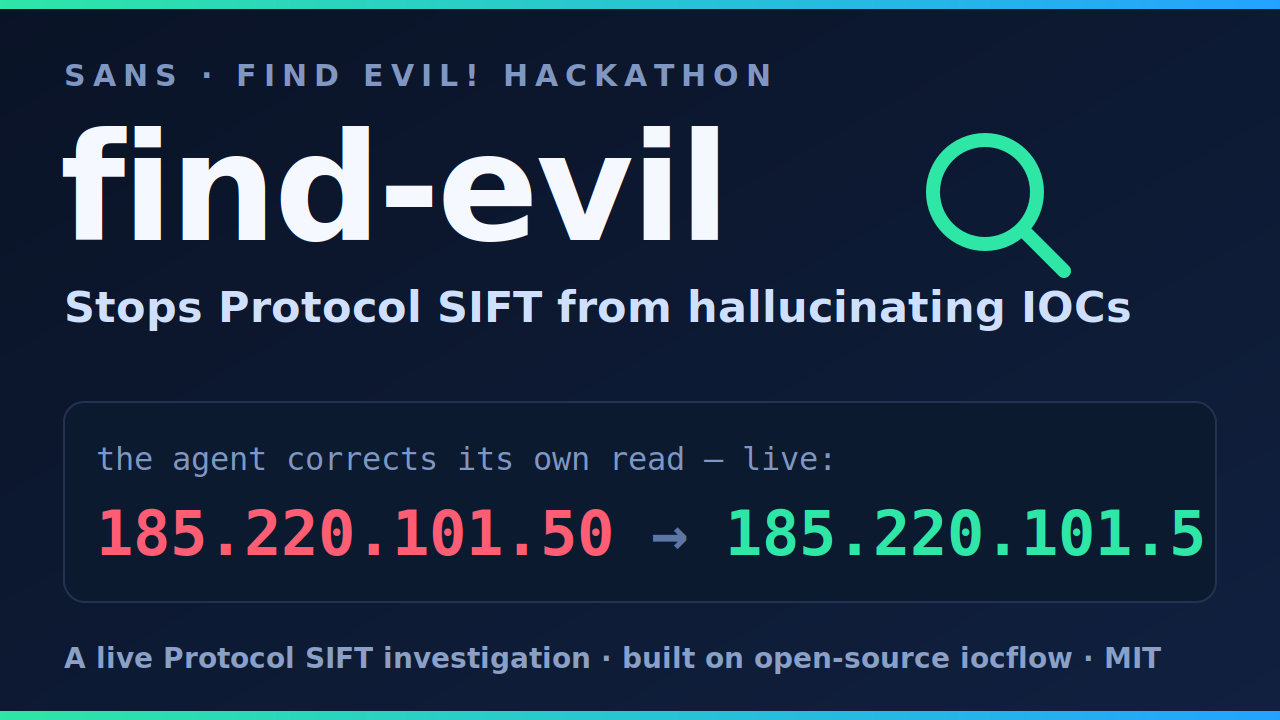
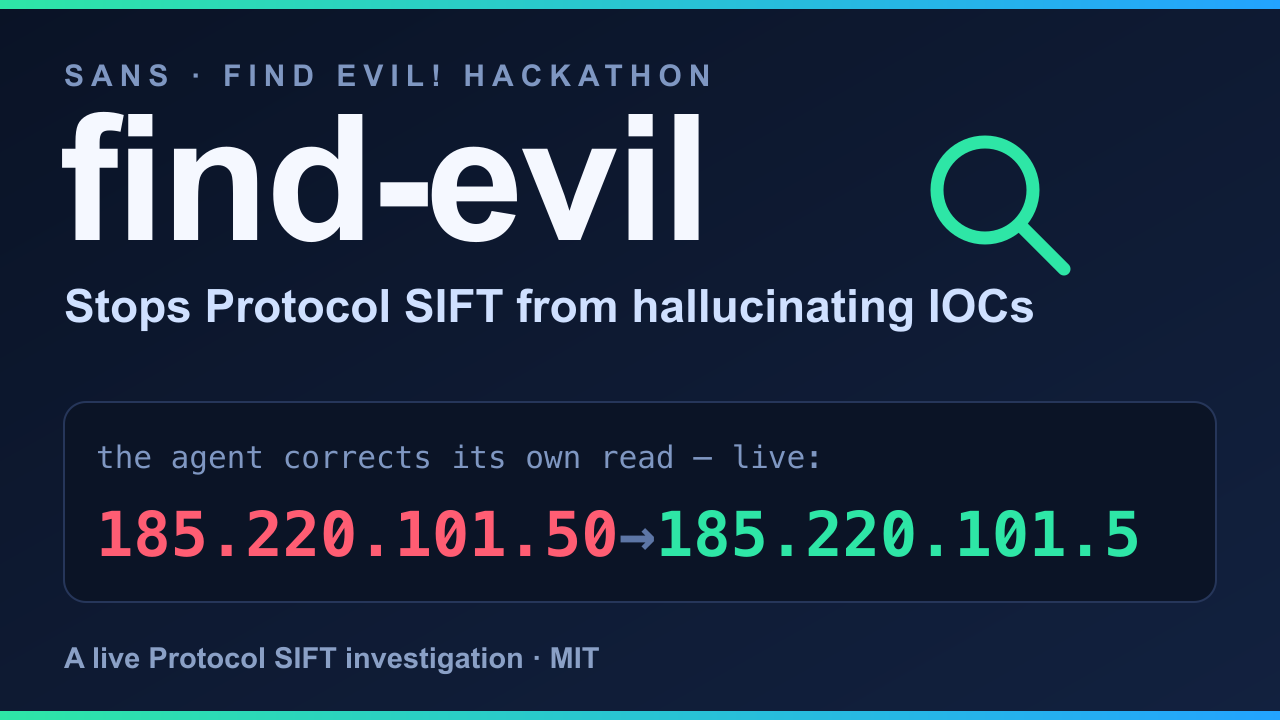
find-evil post: the repo now has its own MCP tools; say so, and drop the private-toolkit wording

diff --git a/_posts/2026-06-14-find-evil-self-correcting-dfir-agent.md b/_posts/2026-06-14-find-evil-self-correcting-dfir-agent.md
@@ -2,8 +2,8 @@
 title: "find-evil: Teaching a Forensic Agent to Catch Its Own Hallucinations"
 image:
   path: /assets/img/posts/find-evil-hero.png
-  alt: "find-evil — bolting iocflow onto Protocol SIFT so the agent self-corrects hallucinated IOCs"
-description: My SANS FIND EVIL! hackathon entry. Protocol SIFT turns the SIFT Workstation into a Claude Code agent over 200+ forensic tools — and it hallucinates indicators because it eyeballs 50,000-line tool dumps. find-evil bolts my iocflow onto it as an MCP server plus one skill, so the agent stops guessing and reconciles its own findings against a deterministic, FP-defended extractor. On the real SANS compromised image it found fileless PowerShell Empire C2, corrected its own "no external C2" read, and refused to invent attribution on the clean host.
+  alt: "find-evil — bolting an IOC lifecycle onto Protocol SIFT so the agent self-corrects hallucinated IOCs"
+description: My SANS FIND EVIL! hackathon entry. Protocol SIFT turns the SIFT Workstation into a Claude Code agent over 200+ forensic tools — and it hallucinates indicators because it eyeballs 50,000-line tool dumps. find-evil bolts an IOC lifecycle onto it as an MCP server plus one skill, so the agent stops guessing and reconciles its own findings against a deterministic, FP-defended extractor. On the real SANS compromised image it found fileless PowerShell Empire C2, corrected its own "no external C2" read, and refused to invent attribution on the clean host.
 date: 2026-06-14 10:00:00 -0400
 categories: [Security, LLM]
 tags: [dfir, forensics, ai-agents, mcp, claude-code, ioc, threat-intelligence, hallucination, sans, open-source]
@@ -14,9 +14,12 @@ accent: magma
 > **Update, August 2026.** This entry didn't win, and reading the ones that placed changed my mind about the approach. I rebuilt it from scratch as [**witness**](https://vinayvobbili.github.io/posts/witness-prove-it-or-it-doesnt-go-in-the-report/), around an oracle that isn't a language model at all. The post below stands as written — it's the entry I submitted.
 {: .prompt-info }
 
+> **Update, November 2026.** The version I submitted used a private toolkit for the MCP tools. The repo no longer depends on it: the tools are now written in the repo itself, it installs and runs on its own, and the state I submitted is tagged `hackathon-submission`. Where the post below describes the tools, the repo's version has the same tool names; its extractor checks hostnames against a built-in list of top-level domains rather than the full Public Suffix List.
+{: .prompt-info }
+
 ## TL;DR 🔎
 
-I built [**find-evil**](https://github.com/vinayvobbili/find-evil) for the SANS **FIND EVIL!** hackathon. [Protocol SIFT](https://github.com/teamdfir/protocol-sift) is a sharp idea — put a Claude Code agent in front of the SANS SIFT Workstation's 200+ forensic tools so a responder can investigate at machine speed. It works. But the brief says the quiet part out loud: *"it also hallucinates more than we'd like."* find-evil bolts my `iocflow` IOC lifecycle onto it as a **custom MCP server plus one skill**, so the agent stops eyeballing huge dumps and instead **reconciles its own findings against a deterministic, false-positive-defended extractor** — catching its hallucinations before they reach the report.
+I built [**find-evil**](https://github.com/vinayvobbili/find-evil) for the SANS **FIND EVIL!** hackathon. [Protocol SIFT](https://github.com/teamdfir/protocol-sift) is a sharp idea — put a Claude Code agent in front of the SANS SIFT Workstation's 200+ forensic tools so a responder can investigate at machine speed. It works. But the brief says the quiet part out loud: *"it also hallucinates more than we'd like."* find-evil bolts an IOC lifecycle onto it as a **custom MCP server plus one skill**, so the agent stops eyeballing huge dumps and instead **reconciles its own findings against a deterministic, false-positive-defended extractor** — catching its hallucinations before they reach the report.
 
 <div class="tldr-cards">
 <div class="tldr-card"><span class="tldr-num">1 skill</span><span class="tldr-sub">extract → reconcile / self-correct → hunt, instead of asserting by eye</span></div>
@@ -47,7 +50,7 @@ SIFT forensic tool (plaso / Volatility / YARA / Sleuth Kit)
         ▼
 Protocol SIFT agent (Claude Code)   ── calls instead of eyeballing ──┐
         ▲                                                            ▼
-        │  structured, re-fanged, PSL-validated IOCs   iocflow MCP server
+        │  structured, re-fanged, TLD-checked IOCs     find-evil MCP server
         └────────────────────────────────────────────────────────────┘
         │  reconcile eyeballed findings vs extractor ground truth
         ▼
@@ -60,8 +63,8 @@ Protocol SIFT, it turns out, **isn't an MCP framework — it *is* Claude Code** 
 flowchart LR
   TOOLS["SIFT forensic tools<br/>plaso · Volatility · YARA · Sleuth Kit"]
   AGENT["Protocol SIFT<br/>= Claude Code agent<br/>baseline: eyeballs dumps → hallucinates<br/>find-evil: calls MCP, then reconciles"]
-  subgraph MCP["iocflow MCP server (typed, stdio) — ARCHITECTURAL boundary"]
-    M1["extract_iocs — re-fang · PSL · dedup · LOLBin-aware"]
+  subgraph MCP["find-evil MCP server (typed, stdio) — ARCHITECTURAL boundary"]
+    M1["extract_iocs — re-fang · TLD check · dedup · LOLBin-aware"]
     M4["suggest_hunts — CQL · XQL · Sigma"]
     M5["propose_blocks — DRY-RUN only, no execute path"]
   end
@@ -91,7 +94,7 @@ Genuine, not staged. And it cut the other way too — **false-positive disciplin
 
 On the clean `base-wkstn-01`, four scary-looking artifacts each got *cleared with a tool*, not waved away: `malfind` empty (refutes injection), `subject_srv.exe` = an F-Response IR agent, and `Mnemosyne.sys` = F-Response's **signed acquisition driver**, not a rootkit. Zero confirmed evil, zero retained hallucinations.
 
-That's the property I care about most: it **found evil where it existed and refused to invent it where it didn't.** Every finding traces back to a specific `mcp__iocflow__*` tool call in the execution log — which, in a hackathon judged on "honesty over perfection," is the whole game.
+That's the property I care about most: it **found evil where it existed and refused to invent it where it didn't.** Every finding traces back to a specific MCP tool call in the execution log (kept at the `hackathon-submission` tag) — which, in a hackathon judged on "honesty over perfection," is the whole game.
 
 ## What I took away 📚
 
@@ -100,7 +103,7 @@ The strongest guardrail isn't a better prompt — it's an **architecture where t
 The find-evil repo is MIT-licensed:
 
 - **Repo:** [github.com/vinayvobbili/find-evil](https://github.com/vinayvobbili/find-evil)
-- **Built on:** `iocflow` (the IOC lifecycle) and `domainflow` (the campaign-clustering pivot), both private projects of mine
+- **Built with:** its own in-repo MCP tools (the submitted version used a private toolkit for them; that state is tagged `hackathon-submission`)
 - **Demo:** [the live investigation above](https://youtu.be/8ufHSoOfc5Q)
 
-Next up: expose iocflow's ATT&CK coverage-gap check as an MCP tool so the agent also answers *"can we even detect this?"* inline, and publish a reconciliation benchmark — hallucination-rate with and without find-evil over labeled cases — as a community baseline. 🚀
+Next up: expose an ATT&CK coverage-gap check as an MCP tool so the agent also answers *"can we even detect this?"* inline, and publish a reconciliation benchmark — hallucination-rate with and without find-evil over labeled cases — as a community baseline. 🚀
